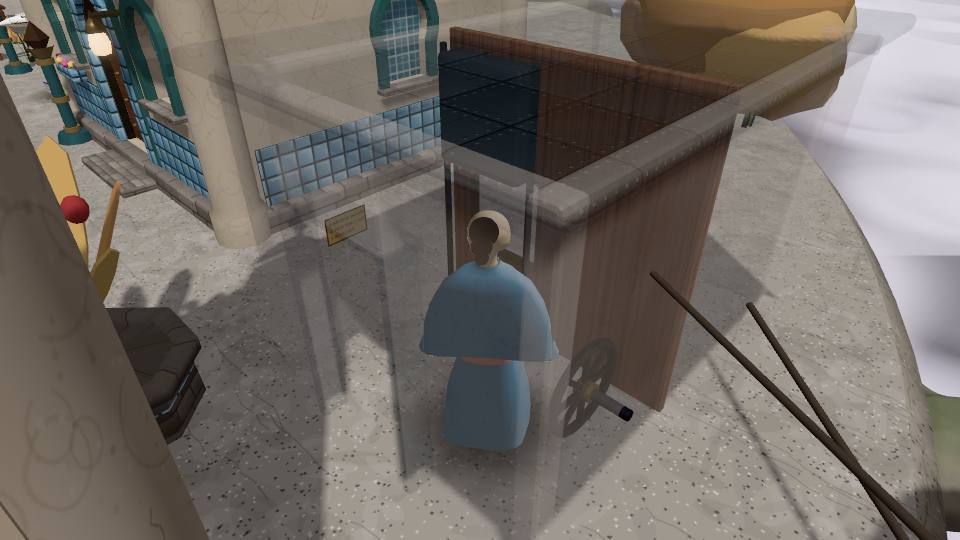
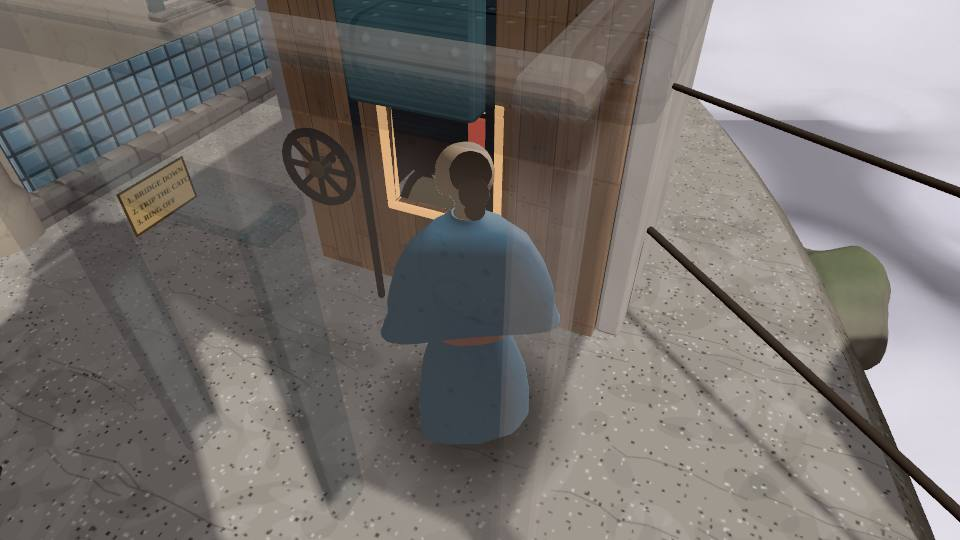
U-1 winch house reads from the play camera: wheel, weight, lit hole and paddle on one face
The partition faces the door with the wheel beside the counterweight's frame; pale planks, a lit
rim round the hole, a painted weight, a bright paddle just behind the drum; only the front room and
its half of the roof fade, the back room stays solid and dark inside; the wheel turns as the weight
rises. Before/after play-camera captures.

Claude-Session: https://claude.ai/code/session_012GFEakZyL3XxjZKHRj5dFg

diff --git a/lba3/src/game/skyferry.js b/lba3/src/game/skyferry.js
@@ -6,11 +6,14 @@
 //   - the West Pier (zeelich.js PIER) keeps its rails and bollards. Its one-crate stack by the pier root became the
 //     SAILINGS BOARD (the replacement, not an addition). At the pier's rail gap: the LOADING BRIDGE (a hinged ramp, up
 //     until the winch house lowers it) under a small derrick post whose cord rings the landing BELL.
-//   - the WINCH HOUSE behind the gateway's south pillar (x −47.6…−44.6, z 6.9…11.4): a door in its north wall; inside,
-//     the bridge's hand wheel on the west wall; a partition with one hole (the port) across the house; the bridge's
-//     COUNTERWEIGHT hangs in front of the port while the bridge is up; behind the partition the CABLE DRUM, and at its
-//     east end the CATCH (a ratchet and pawl) whose trip paddle faces the back wall: only something through the port
-//     reaches it. The drum's cable runs out through the west wall to the ferry's bow.
+//   - the WINCH HOUSE behind the gateway's south pillar (x −47.6…−44.6, z 6.9…10.9): a door in its north wall; inside,
+//     one pale partition across the house faces the door, and everything the puzzle needs is on it or seen through it:
+//     the bridge's hand wheel (east), the port (a hole with a lit rim) and the bridge's COUNTERWEIGHT hanging in front
+//     of it while the bridge is up. Behind the partition, in a dark-lined back room: the CABLE DRUM low behind the hole,
+//     and behind the drum the CATCH (a ratchet and pawl at the drum's west end) whose red trip paddle sits on a lever
+//     right behind the hole: only something through the port reaches it. The drum's cable runs out through the west
+//     wall to the ferry's bow. (U1-WINCH-READ: laid out so the chase camera, standing at his back as he faces the
+//     wheel or the hole, sees the wheel, the weight, the hole and the paddle in one view.)
 //   - the ferry "Patience" (zeelich.js buildFerry, the model kept out of sight until now) at the WEST berth; the second
 //     berth off MILL LANE STEPS: a short timber stage off the south shore below the Cistern Rise, with one post that
 //     holds its sign and its bell. The ferry's deck: a telegraph (its handle starts a sailing) and Oshra's tea crate.
@@ -31,14 +34,14 @@ import { touch } from './story/reach.js';
 
 const Y0 = 6.0;
 export const LF = {
-  hut: { x0: -47.6, x1: -44.6, z0: 6.9, z1: 11.4, h: 2.9, t: 0.2 },
+  hut: { x0: -47.6, x1: -44.6, z0: 6.9, z1: 10.9, h: 2.9, t: 0.2 },
   door: { x: -45.8, hw: 0.55, h: 2.1 },
-  wheel: { x: -47.3, y: 1.12, z: 7.75, r: 0.34 },
+  wheel: { x: -45.12, y: 1.12, z: 8.78, r: 0.3 },      // (on the partition's face, east of the counterweight's frame: the camera at his back clears the gateway's pillar)
   part: { z: 9.0, t: 0.3 },
-  port: { x: -45.5, hw: 0.42, y0: 0.85, y1: 1.75 },   // (the ball, 0.14 m round, needs the room: a throw leaves the hand ~1.45 m up)
+  port: { x: -46.1, hw: 0.42, y0: 0.85, y1: 1.75 },   // (the ball, 0.14 m round, needs the room: a throw leaves the hand ~1.45 m up)
   weight: { w: 0.9, h: 0.95, d: 0.26, z: 8.7, down: 0.82, up: 1.85 },
-  drum: { x0: -46.95, x1: -45.68, z: 9.85, y: 0.78, r: 0.42 },
-  trip: { x: -45.5, y: 1.3, z: 10.75, r: 0.32 },
+  drum: { x0: -46.62, x1: -45.58, z: 9.4, y: 0.55, r: 0.3 },    // (low behind the hole: its top shows in the hole's sill)
+  trip: { x: -46.1, y: 1.1, z: 9.85, r: 0.32 },       // (the paddle: just behind the drum, in the hole's sight from the camera at his back)
   bridge: { x: -55.6, z: 2.15, w: 1.4, L: 2.45 },
   post: { x: -56.65, z: 1.9, h: 3.3 },
   cordW: { x: -56.4, z: 1.72 },
@@ -128,83 +131,102 @@ export function buildSkyFerry(game, Z) {
   const stat = new Kit(root);
   const H = LF.hut, D = LF.door;
   const wood = MAT.wood('dark'), pale = MAT.planks('honey'), brass = MAT.brass(), iron = MAT.iron();
-  const teal = MAT.paint('#2f7a84', 0.55), red = MAT.paint('#b0402a', 0.6);
+  const teal = MAT.paint('#2f7a84', 0.55);
   const rope = MAT.flat('#c8a878', 0.9);
 
-  // ---------------------------------------------------------------- the winch house (its shell fades while he is in it)
+  // ---------------------------------------------------------------- the winch house (its front shell fades while he is in it)
+  // U1-WINCH-READ: the front room's walls and the roof fade (the camera stands at his back, north of the house); the
+  // back room's walls and roof stay solid, dark inside, so the hole shows a dark room with the drum and the bright paddle
+  // in it, not the street through glass-like walls.
   const shellG = new THREE.Group(); root.add(shellG);
   const shell = new Kit(shellG); shell.recolor = false;
   const wallM = MAT.plaster('#e2d6cc').clone(), trimM = MAT.paint('#3a7a8a', 0.55).clone(), roofM = MAT.plates('#7a8a92', 1).clone();
   const shellMats = [wallM, trimM, roofM];
+  const backM = MAT.plaster('#e2d6cc'), backTrimM = MAT.paint('#3a7a8a', 0.55), lining = MAT.flat('#2a2420', 0.95);
   const cx = (H.x0 + H.x1) / 2, cz = (H.z0 + H.z1) / 2, w = H.x1 - H.x0, d = H.z1 - H.z0, t = H.t;
-  const wall = (x, z, ww, dd, y0 = 0, hh = H.h) => {
-    shell.add(rbox(ww, hh, dd, 0.03), wallM, x, Y0 + y0 + hh / 2, z);
+  const PT = LF.part, zs = PT.z + 0.04;   // (the partition's back face: the side walls split there)
+  const wall = (x, z, ww, dd, y0 = 0, hh = H.h, kit = shell, m = wallM) => {
+    kit.add(rbox(ww, hh, dd, 0.03), m, x, Y0 + y0 + hh / 2, z);
     col({ type: 'box', x, z, hw: ww / 2, hd: dd / 2, rot: 0, top: Y0 + y0 + hh, bottom: Y0 + y0 - 0.05, camSkip: true });
   };
-  wall(H.x0 + t / 2, cz, t, d);                        // west
-  wall(H.x1 - t / 2, cz, t, d);                        // east
-  wall(cx, H.z1 - t / 2, w - 2 * t, t);                // back (south)
+  for (const xw of [H.x0 + t / 2, H.x1 - t / 2]) {
+    wall(xw, (H.z0 + zs) / 2, t, zs - H.z0);                        // west / east, the front room's part (fades)
+    wall(xw, (zs + H.z1) / 2, t, H.z1 - zs, 0, H.h, stat, backM);    // west / east, the back room's part (stays)
+  }
+  wall(cx, H.z1 - t / 2, w - 2 * t, t, 0, H.h, stat, backM);        // back (south: stays)
+  // the back room's dark lining (its inner faces: what the hole shows behind the paddle)
+  const iw0 = H.x0 + t, iw1 = H.x1 - t, bz0 = zs, bz1 = H.z1 - t;
+  stat.add(rbox(iw1 - iw0, H.h - 0.02, 0.02, 0.005), lining, cx, Y0 + H.h / 2, bz1 - 0.011);
+  for (const x of [iw0 + 0.011, iw1 - 0.011]) stat.add(rbox(0.02, H.h - 0.02, bz1 - bz0, 0.005), lining, x, Y0 + H.h / 2, (bz0 + bz1) / 2);
   const dl = D.x - D.hw, dr = D.x + D.hw;
   wall((H.x0 + dl) / 2, H.z0 + t / 2, dl - H.x0, t);   // north, west of the door
   wall((dr + H.x1) / 2, H.z0 + t / 2, H.x1 - dr, t);   // north, east of the door
   shell.add(rbox(dr - dl + 0.02, H.h - D.h, t, 0.03), wallM, D.x, Y0 + D.h + (H.h - D.h) / 2, H.z0 + t / 2);   // (the lintel)
-  shell.add(rbox(w + 0.36, 0.14, d + 0.36, 0.04), roofM, cx, Y0 + H.h + 0.07, cz);
-  for (const [x, z, ww, dd] of [[cx, H.z0 - 0.01, w + 0.04, 0.05], [cx, H.z1 + 0.01, w + 0.04, 0.05]]) shell.add(rbox(ww, 0.16, dd, 0.02), trimM, x, Y0 + H.h - 0.12, z);
+  // the roof: over the front room it fades with the walls; over the back room it stays (the hole looks into shade)
+  { const zf = H.z0 - 0.18, zb = H.z1 + 0.18;
+    shell.add(rbox(w + 0.36, 0.14, zs - zf, 0.04), roofM, cx, Y0 + H.h + 0.07, (zf + zs) / 2);
+    stat.add(rbox(w + 0.36, 0.14, zb - zs, 0.04), MAT.plates('#7a8a92', 1), cx, Y0 + H.h + 0.07, (zs + zb) / 2); }
+  shell.add(rbox(w + 0.04, 0.16, 0.05, 0.02), trimM, cx, Y0 + H.h - 0.12, H.z0 - 0.01);
+  stat.add(rbox(w + 0.04, 0.16, 0.05, 0.02), backTrimM, cx, Y0 + H.h - 0.12, H.z1 + 0.01);
   for (const s of [-1, 1]) shell.add(rbox(0.1, D.h + 0.08, 0.26, 0.02), trimM, D.x + s * (D.hw + 0.03), Y0 + D.h / 2, H.z0 + t / 2);
   shell.add(rbox(dr - dl + 0.26, 0.12, 0.26, 0.02), trimM, D.x, Y0 + D.h + 0.06, H.z0 + t / 2);
   shell.flush();
   // the camera: as any house from outside; inside, it keeps its arm and the shell fades (story/ferry.js shellFade)
   roomOcc(Z, P.terrain).add({ kind: 'box', x: OX + cx, z: OZ + cz, hw: w / 2, hd: d / 2, y0: Y0 - 0.1, y1: Y0 + H.h + 0.2, walkUnder: { x0: OX + H.x0, x1: OX + H.x1, z0: OZ + H.z0 - 0.2, z1: OZ + H.z1 }, name: 'winch house' });
 
-  // the brass plate by the door, inside (the procedure)
+  // the brass plate by the door, inside (the procedure); matt, so it reads without a reflection to light it
   const PL = { x: H.x1 - t - 0.01, y: Y0 + 1.45, z: H.z0 + t + 0.55 };
-  { const tx = canvasTex(256, 160, (x, Wd, Hh) => { x.fillStyle = '#d8b060'; x.fillRect(0, 0, Wd, Hh); x.strokeStyle = '#6a4a1a'; x.lineWidth = 8; x.strokeRect(4, 4, Wd - 8, Hh - 8); x.fillStyle = '#3a2a10'; x.textAlign = 'left'; x.font = 'bold 26px serif'; ['1. BRIDGE DOWN', '2. TRIP THE CATCH', '3. RING OFF'].forEach((s, i) => x.fillText(s, 22, 48 + i * 40)); });
-    const m = new THREE.Mesh(plane(0.42, 0.26), MAT.map(tx, 0.4, { metalness: 0.5 })); m.position.set(PL.x, PL.y, PL.z); m.rotation.y = -Math.PI / 2; root.add(m); }
+  { const tx = canvasTex(256, 160, (x, Wd, Hh) => { x.fillStyle = '#e8c070'; x.fillRect(0, 0, Wd, Hh); x.strokeStyle = '#6a4a1a'; x.lineWidth = 8; x.strokeRect(4, 4, Wd - 8, Hh - 8); x.fillStyle = '#2a1a08'; x.textAlign = 'left'; x.font = 'bold 26px serif'; ['1. BRIDGE DOWN', '2. TRIP THE CATCH', '3. RING OFF'].forEach((s, i) => x.fillText(s, 22, 48 + i * 40)); });
+    const m = new THREE.Mesh(plane(0.5, 0.31), MAT.map(tx, 0.5)); m.position.set(PL.x, PL.y, PL.z); m.rotation.y = -Math.PI / 2; root.add(m); }
 
-  // the bridge's hand wheel on the west wall (it turns; its shaft goes out through the wall)
-  const WH = LF.wheel;
-  const wheel = new THREE.Group(); wheel.position.set(WH.x, Y0 + WH.y, WH.z); root.add(wheel);
-  { const k = new Kit(wheel); k.add(torus(WH.r, 0.035, 8, 24), iron, 0, 0, 0, Math.PI / 2);
-    for (let i = 0; i < 4; i++) k.add(rbox(0.04, WH.r * 2, 0.04, 0.01), iron, 0, 0, 0, 0, { rx: i * Math.PI / 4 });
-    k.add(cyl(0.07, 0.07, 0.12, 10), brass, -0.02, 0, 0, 0, { rz: Math.PI / 2 }); k.flush(); }
-  stat.add(cyl(0.04, 0.04, 0.32, 8), iron, H.x0 + 0.1, Y0 + WH.y, WH.z, 0, { rz: Math.PI / 2 });
-
-  // the partition across the house, with its one hole (the port)
-  const PT = LF.part, PO = LF.port, iw0 = H.x0 + t, iw1 = H.x1 - t;
+  // the partition across the house (pale planks: the iron weight, the wheel and the dark hole read against it)
+  const PO = LF.port;
   const part = (x0, x1, y0, y1) => {
-    stat.add(rbox(x1 - x0, y1 - y0, 0.08, 0.01), wood, (x0 + x1) / 2, Y0 + (y0 + y1) / 2, PT.z);
+    stat.add(rbox(x1 - x0, y1 - y0, 0.08, 0.01), pale, (x0 + x1) / 2, Y0 + (y0 + y1) / 2, PT.z);
     col({ type: 'box', x: (x0 + x1) / 2, z: PT.z, hw: (x1 - x0) / 2, hd: PT.t / 2, rot: 0, top: Y0 + y1, bottom: Y0 + y0, camSkip: true });
   };
   part(iw0, PO.x - PO.hw, 0, H.h); part(PO.x + PO.hw, iw1, 0, H.h);
   part(PO.x - PO.hw, PO.x + PO.hw, 0, PO.y0); part(PO.x - PO.hw, PO.x + PO.hw, PO.y1, H.h);
-  // the port's brass rim
-  for (const [x, y, ww, hh] of [[PO.x, PO.y0, PO.hw * 2 + 0.08, 0.04], [PO.x, PO.y1, PO.hw * 2 + 0.08, 0.04], [PO.x - PO.hw, (PO.y0 + PO.y1) / 2, 0.04, PO.y1 - PO.y0], [PO.x + PO.hw, (PO.y0 + PO.y1) / 2, 0.04, PO.y1 - PO.y0]])
-    stat.add(rbox(ww, hh, 0.1, 0.01), brass, x, Y0 + y, PT.z - 0.01);
+  // the port's rim, lit (a warm glow round the hole: it outlines the hole round the counterweight too)
+  const rimM = MAT.glow('#ffe2a0', '#ffb040', 0.9), RB = 0.07;
+  for (const [x, y, ww, hh] of [[PO.x, PO.y0 - RB / 2, PO.hw * 2 + RB * 2, RB], [PO.x, PO.y1 + RB / 2, PO.hw * 2 + RB * 2, RB], [PO.x - PO.hw - RB / 2, (PO.y0 + PO.y1) / 2, RB, PO.y1 - PO.y0], [PO.x + PO.hw + RB / 2, (PO.y0 + PO.y1) / 2, RB, PO.y1 - PO.y0]])
+    stat.add(rbox(ww, hh, 0.1, 0.01), rimM, x, Y0 + y, PT.z - 0.01);
+
+  // the bridge's hand wheel, on the partition east of the weight's frame (it turns as the weight goes up: setWeight)
+  const WH = LF.wheel;
+  const wheel = new THREE.Group(); wheel.position.set(WH.x, Y0 + WH.y, WH.z); root.add(wheel);
+  { const k = new Kit(wheel); k.add(torus(WH.r, 0.035, 8, 24), iron, 0, 0, 0);
+    for (let i = 0; i < 4; i++) k.add(rbox(0.04, WH.r * 2, 0.04, 0.01), iron, 0, 0, 0, 0, { rz: i * Math.PI / 4 });
+    k.add(cyl(0.07, 0.07, 0.12, 10), brass, 0, 0, 0.02, 0, { rx: Math.PI / 2 }); k.flush(); }
+  stat.add(cyl(0.04, 0.04, PT.z - WH.z, 8), iron, WH.x, Y0 + WH.y, (PT.z + WH.z) / 2, 0, { rx: Math.PI / 2 });   // (its shaft into the partition)
 
   // the counterweight in its frame, in front of the port: down (covering it) while the bridge is up
   const WG = LF.weight;
   for (const s of [-1, 1]) stat.add(rbox(0.05, H.h - 0.05, 0.05, 0.01), iron, PO.x + s * (WG.w / 2 + 0.05), Y0 + (H.h - 0.05) / 2, WG.z);
-  const weight = new THREE.Mesh(rbox(WG.w, WG.h, WG.d, 0.03), MAT.iron()); weight.castShadow = true; root.add(weight);
+  // (painted, so it reads as a solid block hanging in the lit frame, not as another dark hole)
+  const weight = new THREE.Mesh(rbox(WG.w, WG.h, WG.d, 0.03), MAT.paint('#5a8a94', 0.5)); weight.castShadow = true; root.add(weight);
   const chain = new THREE.Mesh(cyl(0.015, 0.015, 1, 5), iron); root.add(chain);
   const wcol = col({ type: 'box', x: PO.x, z: WG.z, hw: WG.w / 2, hd: WG.d / 2 + 0.06, rot: 0, top: Y0 + WG.down + WG.h, bottom: Y0 + WG.down, camSkip: true });
 
-  // the drum, the cable on it, and the catch at its east end; the trip paddle faces the back wall
+  // the drum low behind the hole, the cable on it; the ratchet at its west end, the catch's pawl over it
   const DR = LF.drum;
   const drum = new THREE.Group(); drum.position.set((DR.x0 + DR.x1) / 2, Y0 + DR.y, DR.z); root.add(drum);
   { const k = new Kit(drum), L = DR.x1 - DR.x0;
-    k.add(cyl(DR.r * 0.82, DR.r * 0.82, L - 0.1, 16), MAT.flat('#7a6a50', 0.95), 0, 0, 0, 0, { rz: Math.PI / 2 });   // (the cable, wound)
+    k.add(cyl(DR.r * 0.82, DR.r * 0.82, L - 0.1, 16), MAT.flat('#a08a66', 0.95), 0, 0, 0, 0, { rz: Math.PI / 2 });   // (the cable, wound)
     for (const s of [-1, 1]) k.add(cyl(DR.r, DR.r, 0.05, 18), iron, s * (L / 2 - 0.03), 0, 0, 0, { rz: Math.PI / 2 });
-    for (let i = 0; i < 6; i++) k.add(rbox(0.08, 0.06, 0.06, 0.01), iron, L / 2 + 0.04, Math.cos(i * 1.047) * (DR.r + 0.05), Math.sin(i * 1.047) * (DR.r + 0.05));   // (the ratchet's teeth)
+    for (let i = 0; i < 6; i++) k.add(rbox(0.08, 0.06, 0.06, 0.01), iron, -L / 2 - 0.04, Math.cos(i * 1.047) * (DR.r + 0.05), Math.sin(i * 1.047) * (DR.r + 0.05));   // (the ratchet's teeth)
     k.flush(); }
-  for (const x of [DR.x0 - 0.05, DR.x1 + 0.12]) stat.add(rbox(0.1, DR.y + 0.1, 0.18, 0.02), iron, x, Y0 + (DR.y + 0.1) / 2, DR.z);
+  for (const x of [DR.x0 - 0.16, DR.x1 + 0.05]) stat.add(rbox(0.1, DR.y + 0.1, 0.18, 0.02), iron, x, Y0 + (DR.y + 0.1) / 2, DR.z);
   col({ type: 'box', x: (DR.x0 + DR.x1) / 2, z: DR.z, hw: (DR.x1 - DR.x0) / 2 + 0.1, hd: DR.r, rot: 0, top: Y0 + DR.y + DR.r, bottom: Y0, camSkip: true });
-  // the pawl: an iron dog on a pivot block bracketed from the back wall, its red trip paddle toward the wall
-  const TR = LF.trip;
-  stat.add(rbox(0.12, 0.5, 0.42, 0.02), iron, TR.x, Y0 + 1.42, H.z1 - t - 0.21);
-  const pawl = new THREE.Group(); pawl.position.set(TR.x, Y0 + 1.42, DR.z + 0.62); root.add(pawl);
-  { const k = new Kit(pawl);
-    k.add(rbox(0.07, 0.07, 0.62, 0.01), iron, 0, -0.18, -0.24, 0, { rx: -0.55 });   // (the dog, down onto the teeth)
-    k.add(rbox(0.26, 0.2, 0.04, 0.01), red, 0, -0.12, 0.08);                         // (the trip paddle, facing the wall)
+  // the pawl: an iron dog on a pivot post behind the ratchet, down onto its teeth; from the pivot a lever runs east
+  // behind the drum to the red trip paddle, which faces the hole (bright against the dark lining)
+  const TR = LF.trip, PV = { x: DR.x0 - 0.04, y: TR.y, z: TR.z };
+  stat.add(rbox(0.1, PV.y - 0.04, 0.1, 0.02), iron, PV.x, Y0 + (PV.y - 0.04) / 2, PV.z + 0.1);
+  const pawl = new THREE.Group(); pawl.position.set(PV.x, Y0 + PV.y, PV.z); root.add(pawl);
+  { const k = new Kit(pawl), dy = DR.y + DR.r + 0.05 - PV.y, dz = DR.z - PV.z, dd = Math.hypot(dy, dz);
+    k.add(rbox(0.06, 0.06, dd, 0.01), iron, 0, dy / 2, dz / 2, 0, { rx: Math.atan2(-dy, dz) });   // (the dog, down onto the teeth)
+    k.add(rbox(TR.x - PV.x, 0.045, 0.045, 0.01), iron, (TR.x - PV.x) / 2, 0, 0);                  // (the lever)
+    k.add(rbox(0.36, 0.28, 0.05, 0.01), MAT.glow('#ff6a3a', '#d83a14', 0.75), TR.x - PV.x, 0, 0);    // (the trip paddle)
     k.add(cyl(0.05, 0.05, 0.14, 10), brass, 0, 0, 0, 0, { rz: Math.PI / 2 }); k.flush(); }
 
   // the drum's cable out through the west wall to the ferry's bow (taut while the catch holds)
@@ -310,13 +332,13 @@ export function buildSkyFerry(game, Z) {
   const api = {
     root, berth: LF.berth,
     hut: { ...W(H.x0, H.z0), x0: OX + H.x0, x1: OX + H.x1, z0: OZ + H.z0, z1: OZ + H.z1, door: W(D.x, H.z0 - 0.6) },
-    wheel: { ...W(WH.x, WH.z), y: Y0 + WH.y, a: -Math.PI / 2, stand: W(WH.x + 0.48, WH.z) },
+    wheel: { ...W(WH.x, WH.z), y: Y0 + WH.y, a: 0, stand: W(WH.x, WH.z - 0.48) },   // (facing the partition: the camera at his back sees the weight beside it)
     port: { ...W(PO.x, PT.z), y: Y0 + (PO.y0 + PO.y1) / 2 },
     trip: { ...W(TR.x, TR.z), y: Y0 + TR.y, r: TR.r },
     weight: { ...W(PO.x, WG.z - WG.d / 2 - 0.06), y: Y0 + WG.down + WG.h / 2 },   // (its face toward the door: the ball's mark is in front of its collider)
     plate: W(PL.x - 0.05, PL.z),
     drum: W((DR.x0 + DR.x1) / 2, DR.z),
-    throwSpot: { ...W(PO.x, H.z0 + 0.8), a: 0 },
+    throwSpot: { ...W(PO.x + 0.5, H.z0 + 0.55), a: 0 },   // (a little east of the hole and back from it: his head hides less of it from the camera at his back)
     cord: { west: touch(OX + LF.cordW.x, OZ + LF.cordW.z, 0, 'reach'), mill: touch(OX + LF.cordM.x, OZ + LF.cordM.z, -Math.PI / 2, 'reach') },
     board: { ...W(BD.x, BD.z + 0.9), read: W(BD.x, BD.z) },
     millBoard: W(MP.x, MP.z - 0.8),
@@ -348,9 +370,10 @@ export function buildSkyFerry(game, Z) {
       weight.position.set(PO.x, Y0 + y + WG.h / 2, WG.z);
       span(chain, [PO.x, Y0 + y + WG.h, WG.z], [PO.x, Y0 + H.h - 0.05, WG.z]);
       wcol.enabled = k < 0.5;
+      wheel.rotation.z = -k * Math.PI * 3;   // (the wheel turns as the weight comes up: a turn and a half)
       api.weightK = k;
     },
-    setCatch(free) { pawl.rotation.x = free ? -0.7 : 0; api.free = free; },
+    setCatch(free) { pawl.rotation.x = free ? 0.7 : 0; api.free = free; },   // (free: the dog lifts off the teeth, the paddle tips back)
     spinDrum(dt) { drum.rotation.x += dt * 9; },
     setCable(state) {
       cable.visible = state === 'taut';
